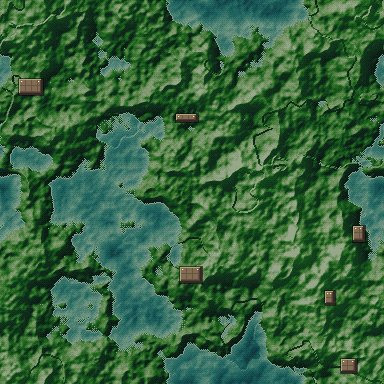
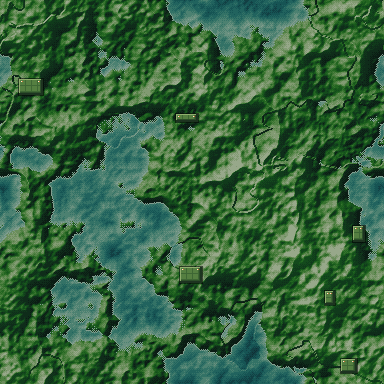
Halcyon: olive drab region 3, deeper parallax, document the 90s look
- Region 3 armour moves from khaki to olive drab so it no longer reads
  like the region 2 desert set, and stands out from the jungle ground.
- The far and near parallax base layers are dimmed a little more
  (.38 and .6) so the playable bases pop and the background reads as
  depth.
- README and theme catalog describe the new art direction, the pix
  module, the 64 colour palette, region materials, tile contents and the
  explosion and bullet changes.
- Small cleanups in the generators; the output is unchanged.

diff --git a/tools/art/halcyon/tiles.py b/tools/art/halcyon/tiles.py
@@ -25,7 +25,7 @@ import math
 import numpy as np
 from PIL import Image
 
-from .pix import (Canvas, hramp, glow_ramp, mix, shift, dilate, erode,
+from .pix import (Canvas, hramp, glow_ramp, shift, dilate, erode,
                   edges, rect, disc, octagon, downscale)
 from .render import sheet
 
@@ -70,7 +70,7 @@ REGIONS = [
             stripe=hramp(4, 0.85, 4, v0=0.45, v1=0.95, shift=0.1)),
     # 3: jungle military, olive drab, yellow hazard, orange lights, toxic
     #    green reactor
-    _region(58, 0.30, 0.09, 0.95, 0.35,
+    _region(84, 0.40, 0.08, 0.95, 0.30,
             accent=hramp(50, 0.9, 6, v0=0.28, v1=1.0, shift=0.15),
             light=glow_ramp(24),
             core=glow_ramp(95),
@@ -631,7 +631,6 @@ def wreck(side, variant, rg):
         cut = R_(-P, -P, T - 1 - ln, T + P)
     stub = full & ~cut
     # Jagged torn end
-    ys, xs = np.mgrid[0:N, 0:N]
     for _ in range(4):
         if side in (U, D):
             bx = rng.uniform(2, 14)
@@ -654,7 +653,6 @@ def wreck(side, variant, rg):
     # Torn edge: exposed dark interior and embers
     torn = stub & ~erode(stub, 2) & dilate(cut)
     t.c.fill(torn, m[0])
-    acc = rg["light"]
     emb = torn & (rng.uniform(size=(N, N)) < 0.25)
     t.c.fill(emb, glow_ramp(24)[3])
     # Debris chunks
@@ -666,7 +664,6 @@ def wreck(side, variant, rg):
         t.c.px(x + P, y + P, m[int(rng.randint(4, 8))])
         t.c.px(x + P + 1, y + P, m[2])
         t.c.px(x + P, y + P + 1, rg["outline"])
-    del acc
     return t.image()
 
 

diff --git a/tools/art/halcyon/pix.py b/tools/art/halcyon/pix.py
@@ -209,12 +209,10 @@ def downscale(img, size):
     al = a[..., 3:4] / 255.0
     pm = a.copy()
     pm[..., :3] *= al
-    pim = Image.fromarray(np.clip(pm, 0, 255).astype(np.uint8), "RGBA")
     # Resize colour and alpha planes separately (Pillow would otherwise
     # premultiply again)
     planes = [Image.fromarray(pm[..., i].astype(np.uint8), "L")
               .resize((size, size), Image.BOX) for i in range(4)]
-    del pim
     r = np.stack([np.array(p).astype(float) for p in planes], axis=-1)
     alpha = r[..., 3] / 255.0
     safe = np.where(alpha > 0, alpha, 1)

diff --git a/docs/theme-catalog.md b/docs/theme-catalog.md
@@ -33,9 +33,9 @@ All Halcyon art is generated by `tools/art/halcyon` (see
 
 | Item | Contents | Status |
 |---|---|---|
-| `P_MAIN` | `halcyon.gpl`, 32 colours: navy and steel blues, teal, wine to gold fire ramp, violet, earth tones, greens | done |
+| `P_MAIN` | `halcyon.gpl`, 64 colours: navy and steel blues, teal, wine to gold, violet, earth tones, greens (0 to 31), then hot fire, warm smoke, plasma blue, toxic green and magenta effect ramps (32 to 63) | done |
 | `P_MAIN_STARS` | Parallax star colours | done |
-| `P_FIRE_L1` to `P_FIRE_L10` | Focus fire colours per level (red, teal, violet and steel variants) | done |
+| `P_FIRE_L1` to `P_FIRE_L10` | Explosion colours per level, each starting in smoke: hot orange, plasma blue, magenta and toxic green variants | done |
 | `P_PLANET_R1` to `P_PLANET_R5` | Planet shading per region | done |
 | `P_RADAR` | Radar background, bases, player, enemies, fade ramp | done |
 | `P_FOCUSFX` | Menu focus effect | done |
@@ -57,37 +57,43 @@ Rotation sheets start with the nose pointing up and turn clockwise.
 | `B_MISSILE3` | `sprites/missile3.png` | 16x16 | 16 | Teal forked seeker | done |
 | `B_BIGSHIP` | `sprites/mothership.png` | 48x48 | 32 | Spinning mothership with six pods | done |
 | `B_ROCK1` (`B_ROCK2`, `B_ROCK3` aliased) | `sprites/rock.png` | 32x32 | 32 | Cratered asteroid rotation | done |
-| `B_ROCKEXPL` | `sprites/rockexpl.png` | 64x64 | 12 | Rock break up | done |
-| `B_BLT_BLUE` | `sprites/bullet-blue.png` | 6x6 | 14 | Enemy bullet | done |
-| `B_BLT_GREEN` | `sprites/bullet-green.png` | 6x6 | 7 | Enemy bullet | done |
-| `B_BLT_RED` | `sprites/bullet-red.png` | 6x6 | 14 | Enemy bullet | done |
-| `B_BLTX_BLUE`, `B_BLTX_GREEN`, `B_BLTX_RED` | `sprites/bulletexpl-*.png` | 16x16 | 6 | Bullet impacts | done |
+| `B_ROCKEXPL` | `sprites/rockexpl.png` | 64x64 | 12 | Rock break up: fireball, smoke, debris, dust ring | done |
+| `B_BLT_BLUE` | `sprites/bullet-blue.png` | 6x6 | 14 | Enemy bullet, plasma orb with white core | done |
+| `B_BLT_GREEN` | `sprites/bullet-green.png` | 6x6 | 7 | Enemy bullet, toxic orb | done |
+| `B_BLT_RED` | `sprites/bullet-red.png` | 6x6 | 14 | Enemy bullet, fire orb | done |
+| `B_BLTX_BLUE`, `B_BLTX_GREEN`, `B_BLTX_RED` | `sprites/bulletexpl-*.png` | 16x16 | 6 | Bullet impacts, fireballs with sparks | done |
 | `B_RING` | `sprites/ring.png` | 16x16 | 16 | Spinning ring | done |
 | `B_RINGEXPL` | `sprites/ringexpl.png` | 20x20 | 16 | Two variants of 8 | done |
 | `B_BOMB` | `sprites/bomb.png` | 12x12 | 48 | 0 to 15 bomb 1, 16 to 31 bomb 2, 32 to 37 armed flash | done |
-| `B_BOMBDETO` | `sprites/bombdeto.png` | 20x20 | 8 | Detonation | done |
+| `B_BOMBDETO` | `sprites/bombdeto.png` | 20x20 | 8 | Detonation fireball with smoke and debris | done |
 | `B_BOLT` | `sprites/bolt.png` | 8x8 | 128 | 0 to 31 muzzle (8 directions x 4), 32 to 63 flight (4 axes x 8, +4 is the fade), 80 to 111 impact | done |
 | `B_CROSSHAIR` | `dashboard/crosshair.png` | 16x16 | 1 | Mouse crosshair | done |
 | `B_SHIELDFX` | `fx/shield.png` | 32x32 | 8 | Shield shimmer with hex lattice | done |
 
 ### Region tiles and backgrounds
 
-Five regions, each with its own directory `region-1` to `region-5`: steel
-and teal, gold and fire, green, violet and rose, ice and amber. Tile sheets
-are 8x7 frames: 0 is the alternate 4 way junction; 1 to 15 are indexed by
-connection mask (up 1, right 2, down 4, left 8; single bits are cannon
-nodes); 16 to 23 animate the core vertically and 24 to 31 horizontally;
-32 to 35 are hard nodes (up, right, down, left); 40 to 45 are pipe variants
-(even frames vertical); 48 to 55 are scrap stubs.
+Five regions, each with its own directory `region-1` to `region-5` and its
+own material: naval gunmetal with cyan lights, desert khaki with rust trim
+and green lights, olive drab with yellow hazard paint, plum armour with
+gold trim and pink lights, white ceramic with red markings. Bases are drawn
+as armoured installations: plated corridors with a south wall and a drop
+shadow, hubs with bunkers, domes, towers and landing pads, twin barrel
+turrets, reactor cores. Tile sheets are 8x7 frames: 0 is the alternate 4
+way junction (landing pad); 1 to 15 are indexed by connection mask (up 1,
+right 2, down 4, left 8; single bits are cannon turrets); 16 to 23 animate
+the core vertically and 24 to 31 horizontally; 32 to 35 are hard nodes
+(up, right, down, left); 40 to 45 are corridor variants (blast door, vent
+block, pipe bundle; even frames vertical); 48 to 55 are wreckage stubs.
+The 12 and 8 px sets are box filtered from the 16 px set.
 
 | Bank (for region N) | File | Size | Status |
 |---|---|---|---|
 | `B_RN_TILES` | `region-N/tiles.png` | 16x16 tiles | done |
 | `B_RN_TILES_SMALL_SPACE` (`_SMALL_GROUND` aliased) | `region-N/tiles-small.png` | 12x12 tiles | done |
 | `B_RN_TILES_TINY_SPACE` (`_TINY_INTERMEDIATE`, `_TINY_GROUND` aliased) | `region-N/tiles-tiny.png` | 8x8 tiles | done |
-| `B_RN_PLANET` (`B_RNL9_GROUND` aliased) | `region-N/planet.png` | 512x512, spinning planet texture | done |
-| `B_RNL8_GROUND` | `region-N/ground-l8.png` | 384x384, seamless | done |
-| `B_RNL10_GROUND` | `region-N/ground-l10.png` | 768x768, seamless | done |
+| `B_RN_PLANET` (`B_RNL9_GROUND` aliased) | `region-N/planet.png` | 512x512, spinning planet texture, 64 colours | done |
+| `B_RNL8_GROUND` | `region-N/ground-l8.png` | 384x384, seamless, two materials and outposts | done |
+| `B_RNL10_GROUND` | `region-N/ground-l10.png` | 768x768, seamless, two materials and outposts | done |
 | `B_RN_CLOUDS` | none | | not used |
 | `B_SPACE` | `space.png` | 512x1024 nebula backdrop, seamless both ways | done |
 
@@ -95,7 +101,7 @@ nodes); 16 to 23 animate the core vertically and 24 to 31 horizontally;
 
 | Bank | File | Frame size | Frames | Notes | Status |
 |---|---|---|---|---|---|
-| `B_SCREEN` | `dashboard/dashboard.png` | 640x360 | 1 | Frame, bezels, console and radar windows; layout in `D_DASH_*` | done |
+| `B_SCREEN` | `dashboard/dashboard.png` | 640x360 | 1 | Gunmetal frame with amber lit bezels and hazard striped bands, console and radar windows; layout in `D_DASH_*` | done |
 | `B_TOPLEDS` (`B_BOTTOMLEDS` aliased) | `dashboard/leds-h.png` | 8x2 | 13 | 0 dark, 1 to 3 red, 4 to 6 green, 7 to 9 blue, 10 to 12 yellow | done |
 | `B_LEFTLEDS` (`B_RIGHTLEDS` aliased) | `dashboard/leds-v.png` | 2x8 | 13 | As above | done |
 | `B_HEALTHLEDS` | `dashboard/shieldleds.png` | 12x4 | 21 | 0 off, red, yellow, green, overcharge, timer | done |
@@ -113,7 +119,7 @@ SoFont sheets: a magenta marker row on top, one marker per glyph from `!`.
 |---|---|---|---|---|
 | `B_SMALL_FONT` | `fonts/microfont.png` | 9 | Small caps 5x7 | done |
 | `B_NORMAL_FONT` (`B_MEDIUM_FONT` aliased) | `fonts/smallfont.png` | 11 | Outlined gradient | done |
-| `B_BIG_FONT` | `fonts/bigfont.png` | 19 | Chrome to aqua, scale2x | done |
+| `B_BIG_FONT` | `fonts/bigfont.png` | 19 | Arcade white to gold to red gradient, heavy outline, scale2x | done |
 | `B_COUNTER_FONT` | `fonts/counterfont.png` | 33 | Digits for the countdown | done |
 | `B_LOADER_FONT`, `B_DEBUG_FONT`, `B_TOOL_FONT` | | | | kept (loader, tools) |
 

diff --git a/tools/art/README.md b/tools/art/README.md
@@ -29,12 +29,13 @@ same pixels, so a rebuild with no source changes leaves `git status` clean.
 
 | Module | What it makes |
 |---|---|
-| `palette.py` | The 32 colour master palette (`halcyon.gpl`) and the material ramps every sprite is shaded with |
+| `palette.py` | The 64 colour master palette (`halcyon.gpl`: 32 base colours plus fire, smoke, plasma, toxic and magenta effect ramps) and the hue shifted material ramps every sprite is shaded with |
+| `pix.py` | Hand-pixel style helpers: hue shifted ramp generator (cool shadows, warm highlights) and a mask based RGBA canvas for hard bevels, seams, rivets and lights |
 | `render.py` | A small signed distance field renderer: shapes are built from circles, boxes, capsules and polygons, lit from the top left, quantized to a material ramp and outlined. Rotation sheets are rendered by rotating the shape, not the pixels, so every frame is crisp |
 | `noise.py` | Seamless value noise and fBm, used for rocks, nebulae and planet surfaces |
-| `sprites.py` | Player ship, enemies, motherships, rocks, bullets, bombs, rings, the player's bolts and every explosion |
-| `tiles.py` | Base tiles for the five regions, at 16, 12 and 8 pixels |
-| `backgrounds.py` | The tiling space backdrop, region planets and ground layers |
+| `sprites.py` | Player ship, enemies, motherships, rocks, bullets, bombs, rings, the player's bolts and every explosion (a shared fireball generator gives the blasts a white hot core, smoke, sparks and debris) |
+| `tiles.py` | Base tiles for the five regions: armoured installations drawn with `pix.py` at 16 px (south walls, drop shadows, plating, turrets, reactor cores, wreckage), box filtered to 12 and 8 px for the parallax layers |
+| `backgrounds.py` | The tiling space backdrop, and per region planets and ground layers with two materials each (rock and basalt, dunes and mesas, jungle and rivers, crust and magma fissures, ice and crevasses) plus small outposts |
 | `fontdata.py`, `fonts.py` | A hand authored 5x7 font, scaled and styled into the four SoFont sheets |
 | `hud.py` | Dashboard frame, LEDs, weapon slots and the title logo |
 | `fx.py` | Noise strips, shield effect and the screen transition tiles |
@@ -44,6 +45,16 @@ same pixels, so a rebuild with no source changes leaves `git status` clean.
 Frame layouts (rotation order, tile masks, LED states) follow what the
 engine expects; `docs/theme-catalog.md` lists every bank with its frame
 count and meaning.
+
+## Art direction
+
+The theme aims for a mid 1990s arcade shooter look: chunky industrial
+structures with real mass, multi tone shaded plating with bevels, panel
+seams, rivets, vents, hazard striping and glowing lights, a strong top
+left light, and fat explosions with smoke and debris. Each region has its
+own material: naval gunmetal with cyan lights, desert khaki with rust
+trim, olive drab with yellow hazard paint, plum armour with gold trim, and
+white ceramic with red markings.
 
 ## Checking the result
 
